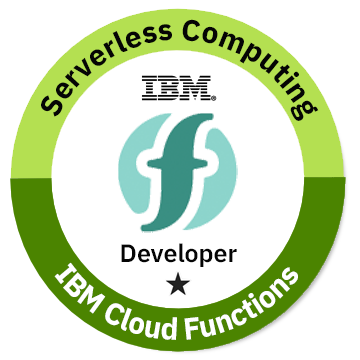
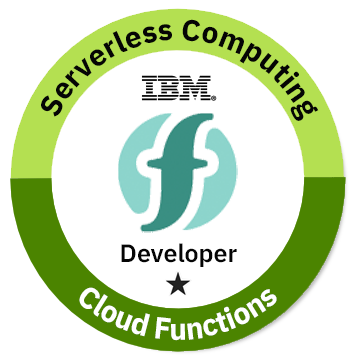
address course feedback

Changed region(s): [[0.1528, 0.7333, 0.825, 0.9472]]

diff --git a/101-workshop-nodejs/README.md b/101-workshop-nodejs/README.md
@@ -17,7 +17,7 @@
 #
 -->
 
-# Welcome to the Serverless Computing Developer I course using IBM Cloud Functions
+# Welcome to the Serverless Computing Developer I course using Cloud Functions
 
 Hello, future serverless developers!
 
